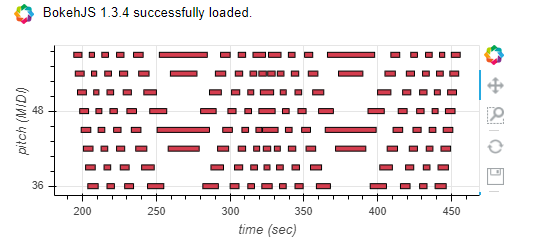
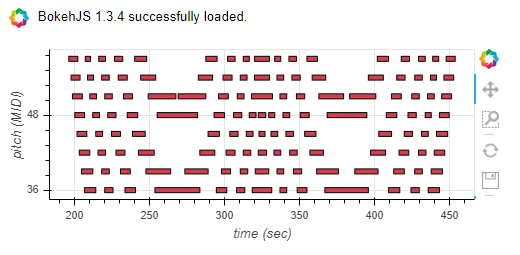
- Midi modifier, Stretch funcs to README.md

diff --git a/README.md b/README.md
@@ -32,7 +32,7 @@ For the experimental part the below image will be used.
 
 ![alt text](https://previews.123rf.com/images/snezh/snezh1506/snezh150600608/41542855-vector-mandala-round-ornament-in-ethnic-style-hand-draw.jpg)
 
-Using the same code above we get the resul below. As you can see due to the midi range limitation of 127 notes the image/midi notes become greatly compressed
+Using the same code above we get the result below. As you can see due to the high quality of detail in the image in addition with the midi range limitation of 127 notes, the image/midi notes become greatly compressed.
 
 ![Image 2](./pics/img2midi2.PNG)
 
@@ -70,3 +70,17 @@ For example if we set the steps to 2, every midi note will have a space of 2 bet
 	
 ![Image 4](./pics/img2midi2_x3.PNG)
 
+This midi set could probably sound ok. But in reality music does not have an upper or lower limit, and neither is stable without fluctuations.
+So we can try and add some of that also.
+
+First we will need to quantize the midi notes using the `stretch()` function. The we can use the `midi_modifier()` function to add fluctuation and the amount we want to shift notes up or down.
+We can also set every step we want the midi shift to apply. The amount of shift per step is selected at random.
+	
+	# Stretch or quantize midi. Default value is 16
+	i2m.stretch() # If you want to change the value the bars argument is used. ex bars=8
+	i2m.midi_modifier(s_stretch=[-2,2], # Add the shift range in the s_stretch argument. 
+	                  start_zero=True,  # Shift all notes until first note starts at zero.
+					  scale_change=8)   # Apply shift changes 8 times. For 16 it will shift every 2 bars. 16/8
+	i2m.plot()
+	
+![Image 4](./pics/img2midi2_x4.PNG)
